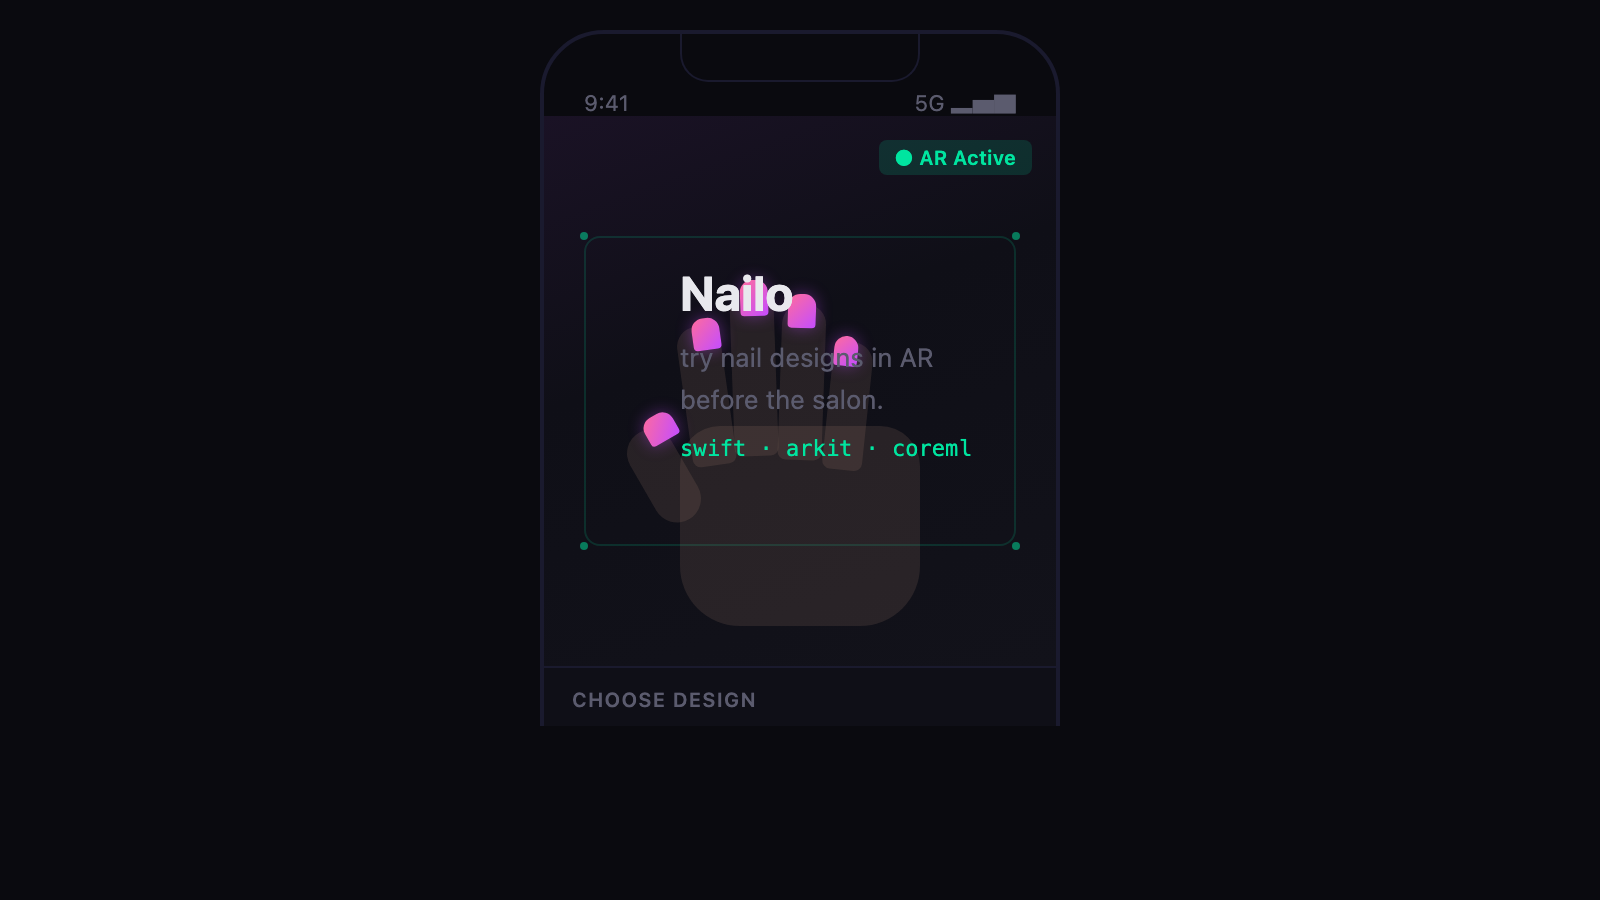
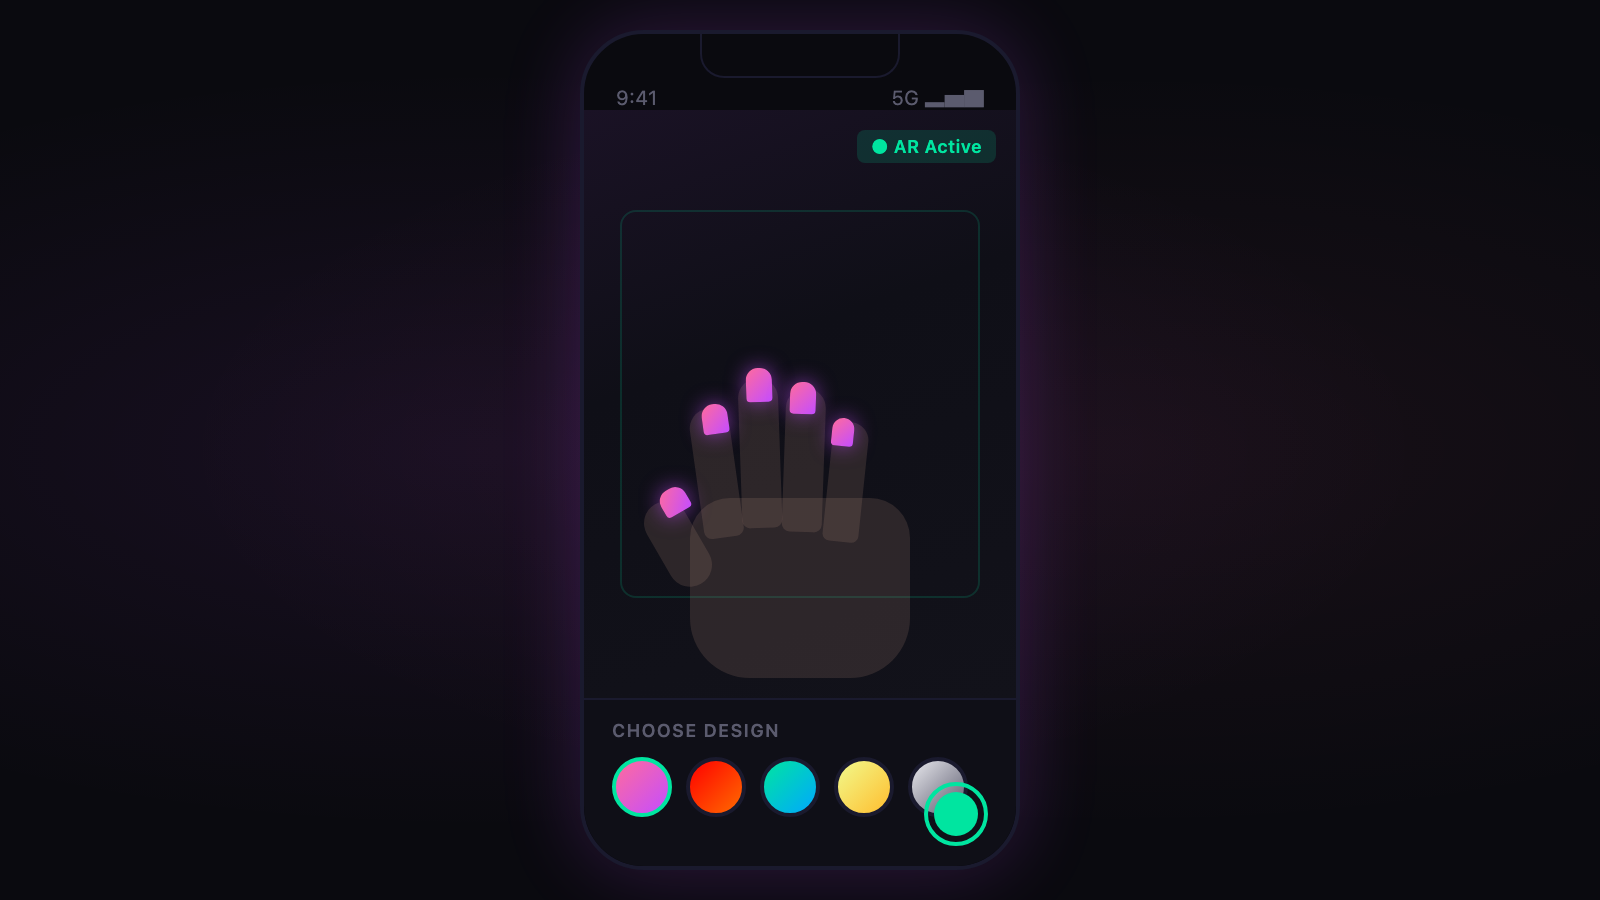
fix: tighten nailo mockup to fit viewport

diff --git a/mockups/nailo.html b/mockups/nailo.html
@@ -2,83 +2,86 @@
 <html lang="en">
 <head>
 <meta charset="UTF-8">
-<meta name="viewport" content="width=800">
 <style>
   * { margin: 0; padding: 0; box-sizing: border-box; }
   body {
     width: 800px; height: 450px; overflow: hidden;
     background: #0a0a0f;
-    display: flex; align-items: center; justify-content: center;
     font-family: -apple-system, BlinkMacSystemFont, 'SF Pro Text', sans-serif;
+    position: relative;
+  }
+  .glow-bg {
+    position: absolute; inset: 0;
+    background:
+      radial-gradient(ellipse at 30% 50%, rgba(196,77,255,0.08), transparent 60%),
+      radial-gradient(ellipse at 70% 50%, rgba(255,107,157,0.06), transparent 60%);
   }
   .phone {
-    width: 260px; height: 420px; background: #0a0a0f;
+    width: 220px; height: 420px; background: #0a0a0f;
     border: 2px solid #1a1a2e; border-radius: 32px;
-    overflow: hidden; position: relative; display: flex; flex-direction: column;
+    overflow: hidden; display: flex; flex-direction: column;
+    z-index: 1;
+    box-shadow: 0 0 40px rgba(196,77,255,0.2);
+    position: absolute; top: 15px; left: 50%; transform: translateX(-50%);
   }
   .notch {
-    width: 120px; height: 24px; background: #0a0a0f;
-    border-radius: 0 0 14px 14px; margin: 0 auto;
+    width: 100px; height: 22px; background: #0a0a0f;
+    border-radius: 0 0 12px 12px; margin: 0 auto;
     border: 1px solid #1a1a2e; border-top: none;
+    flex-shrink: 0;
   }
   .status-bar {
-    display: flex; justify-content: space-between; padding: 4px 20px 0;
-    font-size: 11px; color: #5b5b6e;
+    display: flex; justify-content: space-between; padding: 4px 16px 0;
+    font-size: 10px; color: #5b5b6e;
+    flex-shrink: 0;
   }
-  .app-content { flex: 1; display: flex; flex-direction: column; overflow: hidden; }
+  .app-content { flex: 1; display: flex; flex-direction: column; overflow: hidden; min-height: 0; }
   .camera-view {
-    flex: 1; position: relative; overflow: hidden;
+    flex: 1; position: relative; overflow: hidden; min-height: 0;
     background: linear-gradient(160deg, #1a1225 0%, #0f0f17 40%, #12121a 100%);
   }
   .hand {
-    position: absolute; bottom: 20px; left: 50%; transform: translateX(-50%);
-    width: 180px; height: 200px;
+    position: absolute; bottom: 10px; left: 50%; transform: translateX(-50%);
+    width: 160px; height: 180px;
   }
   .palm {
-    position: absolute; bottom: 0; left: 30px; width: 120px; height: 100px;
-    background: rgba(180,140,120,0.15); border-radius: 20px 20px 30px 30px;
+    position: absolute; bottom: 0; left: 25px; width: 110px; height: 90px;
+    background: rgba(180,140,120,0.18); border-radius: 20px 20px 30px 30px;
   }
-  .finger {
-    position: absolute; background: rgba(180,140,120,0.15); border-radius: 10px 10px 4px 4px;
-  }
-  .f1 { width: 22px; height: 70px; bottom: 80px; left: 32px; transform: rotate(-8deg); }
-  .f2 { width: 22px; height: 82px; bottom: 85px; left: 56px; transform: rotate(-2deg); }
-  .f3 { width: 22px; height: 78px; bottom: 83px; left: 80px; transform: rotate(2deg); }
-  .f4 { width: 20px; height: 64px; bottom: 78px; left: 104px; transform: rotate(6deg); }
-  .thumb { width: 24px; height: 50px; bottom: 50px; left: 10px; transform: rotate(-30deg); border-radius: 12px; }
+  .finger { position: absolute; background: rgba(180,140,120,0.18); border-radius: 10px 10px 4px 4px; }
+  .f1 { width: 20px; height: 65px; bottom: 70px; left: 28px; transform: rotate(-8deg); }
+  .f2 { width: 20px; height: 75px; bottom: 75px; left: 50px; transform: rotate(-2deg); }
+  .f3 { width: 20px; height: 72px; bottom: 73px; left: 72px; transform: rotate(2deg); }
+  .f4 { width: 18px; height: 60px; bottom: 68px; left: 94px; transform: rotate(6deg); }
+  .thumb { width: 22px; height: 46px; bottom: 44px; left: 8px; transform: rotate(-30deg); border-radius: 12px; }
   .nail {
     position: absolute; border-radius: 6px 6px 2px 2px;
     background: linear-gradient(135deg, #ff6b9d, #c44dff);
-    box-shadow: 0 0 8px rgba(196,77,255,0.4);
+    box-shadow: 0 0 10px rgba(196,77,255,0.6);
   }
-  .n1 { width: 14px; height: 16px; bottom: 138px; left: 36px; transform: rotate(-8deg); }
-  .n2 { width: 14px; height: 18px; bottom: 155px; left: 60px; transform: rotate(-2deg); }
-  .n3 { width: 14px; height: 17px; bottom: 149px; left: 84px; transform: rotate(2deg); }
-  .n4 { width: 12px; height: 15px; bottom: 130px; left: 107px; transform: rotate(6deg); }
-  .n-thumb { width: 16px; height: 14px; bottom: 92px; left: 12px; transform: rotate(-30deg); }
+  .n1 { width: 13px; height: 15px; bottom: 122px; left: 31px; transform: rotate(-8deg); }
+  .n2 { width: 13px; height: 17px; bottom: 138px; left: 53px; transform: rotate(-2deg); }
+  .n3 { width: 13px; height: 16px; bottom: 132px; left: 75px; transform: rotate(2deg); }
+  .n4 { width: 11px; height: 14px; bottom: 116px; left: 96px; transform: rotate(6deg); }
+  .n-thumb { width: 14px; height: 13px; bottom: 82px; left: 10px; transform: rotate(-30deg); }
   .ar-badge {
-    position: absolute; top: 12px; right: 12px;
-    font-size: 10px; padding: 3px 8px; border-radius: 4px;
+    position: absolute; top: 10px; right: 10px;
+    font-size: 9px; padding: 3px 7px; border-radius: 4px;
     background: rgba(0,229,160,0.15); color: #00e5a0; font-weight: 600;
   }
   .ar-corners {
-    position: absolute; top: 60px; left: 20px; right: 20px; bottom: 60px;
+    position: absolute; top: 50px; left: 18px; right: 18px; bottom: 50px;
     border: 1px solid rgba(0,229,160,0.15); border-radius: 8px;
   }
-  .ar-dot {
-    position: absolute; width: 4px; height: 4px; border-radius: 50%;
-    background: #00e5a0; opacity: 0.5;
-  }
-  .ad1 { top: 58px; left: 18px; } .ad2 { top: 58px; right: 18px; }
-  .ad3 { bottom: 58px; left: 18px; } .ad4 { bottom: 58px; right: 18px; }
   .design-panel {
-    height: 100px; background: #0f0f17; border-top: 1px solid #1a1a2e;
+    height: 84px; background: #0f0f17; border-top: 1px solid #1a1a2e;
     padding: 10px 14px; position: relative;
+    flex-shrink: 0;
   }
-  .panel-title { font-size: 10px; color: #5b5b6e; font-weight: 600; text-transform: uppercase; letter-spacing: 0.05em; margin-bottom: 8px; }
-  .designs { display: flex; gap: 8px; }
+  .panel-title { font-size: 9px; color: #5b5b6e; font-weight: 600; text-transform: uppercase; letter-spacing: 0.05em; margin-bottom: 8px; }
+  .designs { display: flex; gap: 7px; }
   .design-circle {
-    width: 36px; height: 36px; border-radius: 50%; border: 2px solid #1a1a2e;
+    width: 30px; height: 30px; border-radius: 50%; border: 2px solid #1a1a2e;
   }
   .design-circle.active { border-color: #00e5a0; }
   .dc1 { background: linear-gradient(135deg, #ff6b9d, #c44dff); }
@@ -87,21 +90,16 @@
   .dc4 { background: linear-gradient(135deg, #f1fa8c, #ffbd2e); }
   .dc5 { background: linear-gradient(135deg, #e8e8ed, #5b5b6e); }
   .capture-btn {
-    position: absolute; bottom: 12px; right: 14px;
-    width: 36px; height: 36px; border-radius: 50%;
+    position: absolute; bottom: 10px; right: 14px;
+    width: 32px; height: 32px; border-radius: 50%;
     border: 2px solid #00e5a0; background: transparent;
     display: flex; align-items: center; justify-content: center;
   }
-  .capture-inner { width: 26px; height: 26px; border-radius: 50%; background: #00e5a0; }
-  .side-text {
-    position: absolute; left: 340px; top: 50%; transform: translateY(-50%);
-  }
-  .side-title { font-size: 24px; font-weight: 700; color: #e8e8ed; margin-bottom: 8px; }
-  .side-desc { font-size: 13px; color: #5b5b6e; line-height: 1.6; max-width: 200px; }
-  .side-tag { margin-top: 8px; font-size: 11px; color: #00e5a0; font-family: monospace; }
+  .capture-inner { width: 22px; height: 22px; border-radius: 50%; background: #00e5a0; }
 </style>
 </head>
 <body>
+  <div class="glow-bg"></div>
   <div class="phone">
     <div class="notch"></div>
     <div class="status-bar"><span>9:41</span><span>5G ▂▅▇</span></div>
@@ -109,8 +107,6 @@
       <div class="camera-view">
         <div class="ar-badge">● AR Active</div>
         <div class="ar-corners"></div>
-        <div class="ar-dot ad1"></div><div class="ar-dot ad2"></div>
-        <div class="ar-dot ad3"></div><div class="ar-dot ad4"></div>
         <div class="hand">
           <div class="finger f1"></div>
           <div class="finger f2"></div>
@@ -137,11 +133,6 @@
         <div class="capture-btn"><div class="capture-inner"></div></div>
       </div>
     </div>
-  </div>
-  <div class="side-text">
-    <div class="side-title">Nailo</div>
-    <div class="side-desc">try nail designs in AR<br>before the salon.</div>
-    <div class="side-tag">swift · arkit · coreml</div>
   </div>
 </body>
 </html>
